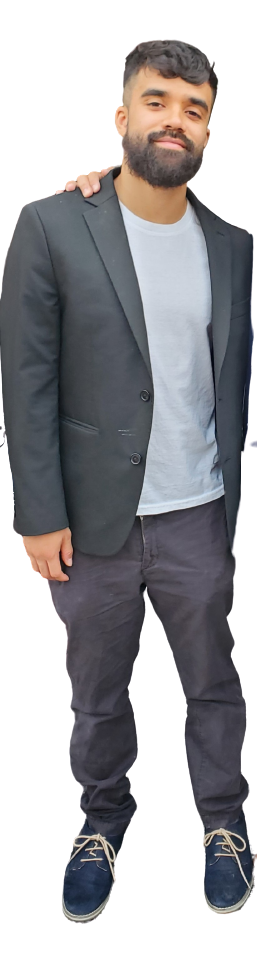
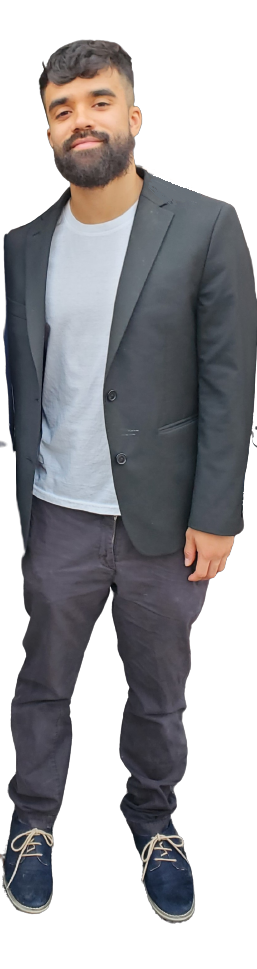
mobile-responsiveness for landing page (not nav)

diff --git a/src/Sections/Intro/intro.css b/src/Sections/Intro/intro.css
@@ -6,9 +6,12 @@ The self-portrait is positioned in the second half of the page
 
 /* Height is equal to 100% view height - the height of the navbar (5rem) */
 
+
+/* Text Content */
+
 #intro {
   height: calc(100vh - 5rem);
-  width: 100vw;
+  width: 80vw;
   margin: 0 auto;
   overflow: hidden;
   position: relative;
@@ -18,46 +21,128 @@ The self-portrait is positioned in the second half of the page
   height: calc(100vh - 5rem);
   width: 100vw;
   padding: 2rem;
-  font-size: 3rem;
+  font-size: 3.4rem;
   font-weight: 700;
   display: flex;
   flex-direction: column;
   justify-content: center;
 }
 
+
 #hello {
   font-size: 1.75rem;
   font-weight: 100;
+  margin-bottom: 15px;
 }
 
 #introName {
   color: rgb(240, 156, 1);
 }
 
-#intro-connect {
-  font-size: 1.4rem;
+#web-dev {
+  margin-bottom: 20px;
 }
 
-#intro-paragraph {
-  font-size: 1rem;
-  font-weight: 100;
+.intro-paragraph {
+  font-size: 1.1rem;
+  font-weight: 1;
+  line-height: 1.25;
+  color: rgb(240,240,240);
+  max-width: 465px;
+}
+
+@media screen and (max-width: 850px) {
+  .intro-text {
+    font-size: 3.32rem;
+  }
+
+  .intro-paragraph {
+    font-size: 1.05rem;
+  }
+}
+
+@media screen and (max-width: 700px) {
+  .intro-text {
+    font-size: 3rem;
+    max-width: 70vw;
+  }
+
+  .intro-paragraph {
+    max-width: 65vw;
+  }
+}
+
+
+@media screen and (max-width: 600px) {
+  .intro-paragraph {
+    max-width: 60vw;
+    font-size: 0.9rem;
+  }
+}
+
+.intro-text {
+  margin-bottom: 15px;
+}
+
+#intro-connect {
+  font-size: 1.38rem;
+  transform: translateY(20px);
 }
 
 /* Self-Portrait */
 
 #portrait {
-  object-fit: cover;
-  height: 65vh;
+  object-fit: contain;
+  height: 150vh;
+  width: 400px;
   position: absolute;
   top: 4rem;
-  right: 10rem;
+  right: 10%;
   z-index: -1;
 }
+
+@media screen and (max-width: 1500px) {
+  #portrait {
+    right: 4%;
+  }
+}
+
+@media screen and (max-width: 1250px) {
+  #portrait {
+    right: 2%;
+  }
+}
+
+@media screen and (max-width: 900px) {
+  #portrait {
+    right: 0;
+  }
+}
+
+@media screen and (max-width: 750px) {
+  #portrait {
+    right: -6vw;
+  }
+}
+
+@media screen and (max-width: 480px) {
+  #portrait {
+    right: -13vw;
+  }
+}
+
+@media screen and (max-width: 400px) {
+  #portrait {
+    right: -25vw;
+  }
+}
+
+
 
 /* Let's Connect */
 
 #right-arrow:hover {
-  transform: translateX(16px);
+  transform: translateX(14px);
 }
 
 #intro-connect:hover {

diff --git a/src/Sections/Intro/intro.js b/src/Sections/Intro/intro.js
@@ -7,7 +7,7 @@
 
 import React from 'react'
 import "./intro.css";
-import portrait from "../../assets/self-photo.png";
+import portrait from "../../assets/self-photo-fullbody2.png";
 /* Font Awesome */
 import { FontAwesomeIcon } from '@fortawesome/react-fontawesome';
 import { faCircleArrowRight } from '@fortawesome/free-solid-svg-icons';
@@ -18,12 +18,13 @@ const Intro = () => {
     <>
     <section id="intro">
       <section id="intro-content">
-        <p id="hello">Hello,</p>
+        <p id="hello">Hi!</p>
         <p className="intro-text">I'm <span id="introName">Anthony</span></p>
-        <p className="intro-text">Website Developer</p>
-        <p id="intro-paragraph">Highly motivated web developer with a passion for learning and creating beautiful, user-friendly
-          websites
-        </p>
+        <span className="intro-text" id="web-dev">Website Developer</span>
+        <p className="intro-paragraph">Highly motivated web developer with a passion for learning
+        and creating user-friendly, high-quality websites</p>
+        {/* <p className="intro-paragraph">(and using pictures with ghost hands)</p> */}
+
         <Link id="intro-connect">
           <span>Let's Connect</span>
           <FontAwesomeIcon icon = {faCircleArrowRight} id="right-arrow"></FontAwesomeIcon>

diff --git a/src/Sections/Navbar/navbar.css b/src/Sections/Navbar/navbar.css
@@ -6,7 +6,7 @@ It uses flexbox and a white coloring in conjuction with dark background */
 
 #navbar {
   height: 5rem;
-  width: 100vw;
+  width: 80vw;
   margin: 0 auto;
   padding: 1rem 2rem;
   display: flex;
@@ -17,6 +17,7 @@ It uses flexbox and a white coloring in conjuction with dark background */
   top: 0;
   color: #fff;
   z-index: 3;
+  overflow: hidden;
 }
 
 #desktop-menu {
@@ -24,7 +25,6 @@ It uses flexbox and a white coloring in conjuction with dark background */
   gap: 10px;
   justify-content: center;
   align-items: center;
-  margin-right: 10vw;
 }
 
 
@@ -49,7 +49,7 @@ It uses flexbox and a white coloring in conjuction with dark background */
 }
 
 #social-links {
-  display: inline-block;
+  display: flex;
   margin-left: 3rem;
 }
 
@@ -99,11 +99,11 @@ It uses flexbox and a white coloring in conjuction with dark background */
 #desktop-menu button {
   font-weight: 700;
   font-size: 0.9em;
-  border: 1px solid orange;
+  border: 1px solid #fff;
   position: relative;
   margin-left: 2rem;
   padding: 18px 34px;
-  color: orange;
+  color: #fff;
   cursor: pointer;
   background-color: transparent;
   transition: 0.32s ease-in-out;

diff --git a/public/styles.css b/public/styles.css
@@ -14,7 +14,7 @@ emoval and box sizing */
 }
 
 body {
-  background: rgb(30,30,30);
+  background: rgb(32,32,32);
   color: white;
   overflow: hidden;
   overflow-y: scroll;
